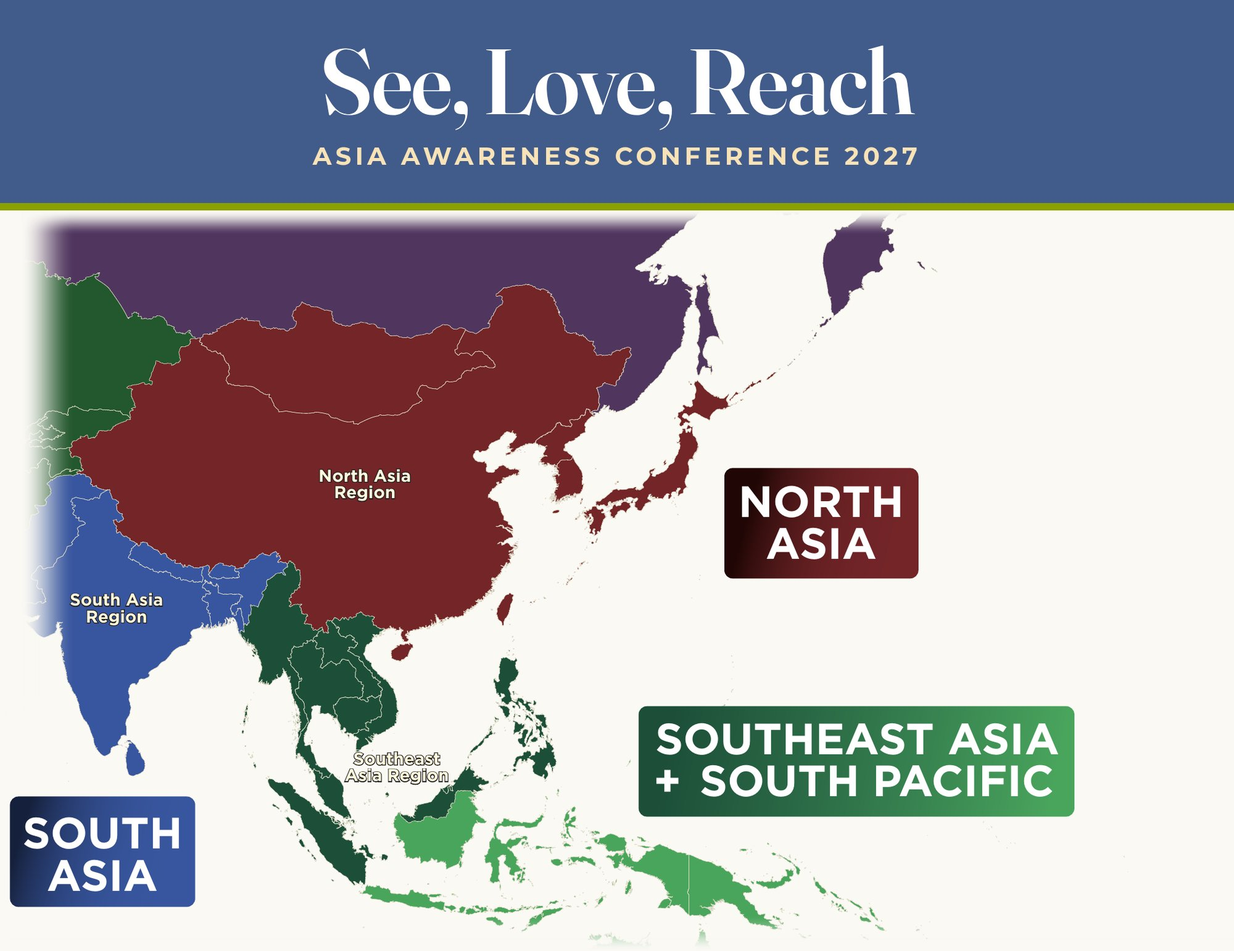
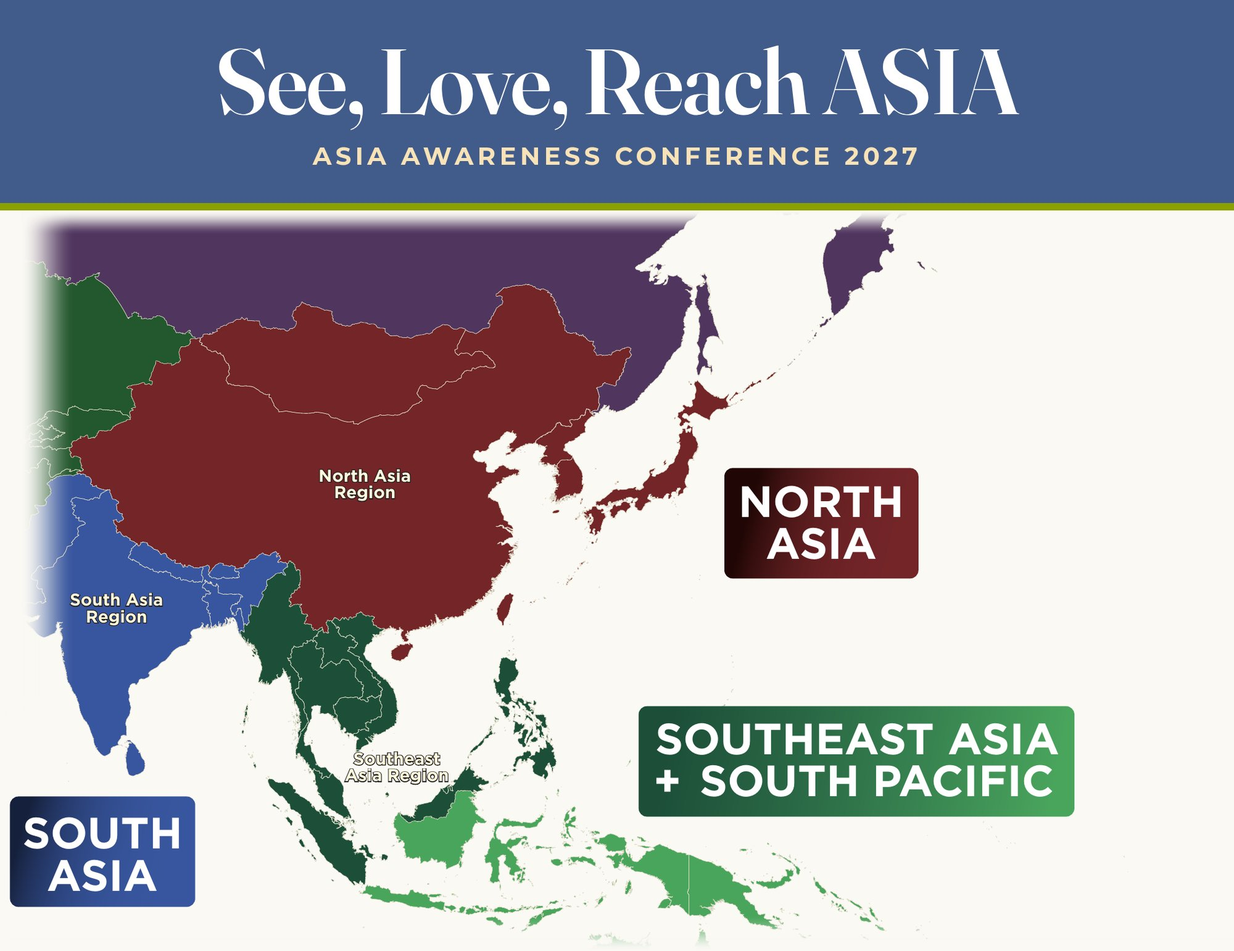
Align all site copy with the approved "See, Love, Reach ASIA" content
- Hero: "See, Love, Reach ASIA: Asia Awareness Conference 2027",
  theme "Together to the Unreached", host line naming FMI.
- New intro section with the two "Come and join us" paragraphs.
- Why Asia: regional statistics, shared-mission paragraph, and
  "Highlights of our Time" (India, Cambodia, Global Foursquare Family).
- Map band and caption, Who It's For heading, intro and cards, and
  schedule notes updated to the approved wording.
- Speakers intro, FAQ, footer, meta tags and share images aligned;
  footer logo no longer carries the old "Together on Mission" line.

Claude-Session: https://claude.ai/code/session_01EzBjrMqrEAji9AWHZvxqX2

Changed region(s): [[0.155, 0.0311, 0.837, 0.1246]]

diff --git a/index.html b/index.html
@@ -3,8 +3,8 @@
 <head>
 <meta charset="utf-8">
 <meta name="viewport" content="width=device-width, initial-scale=1">
-<title>Asia Awareness Conference 2027 · Together on Mission · Living Water Foursquare</title>
-<meta name="description" content="Asia Awareness Conference, April 5–7, 2027 at Living Water Foursquare in Olympia, WA, in partnership with Foursquare Missions International Asia. Together on Mission: pastors, church members and missionaries coming together for the unreached of Asia.">
+<title>See, Love, Reach Asia · Asia Awareness Conference 2027 · Living Water Foursquare</title>
+<meta name="description" content="See, Love, Reach Asia: Asia Awareness Conference 2027. Together to the Unreached. April 5–7, 2027 at Living Water Foursquare Church, Olympia, WA, hosted in partnership with Foursquare Missions International.">
 <meta name="theme-color" content="#415B8B">
 <!-- PLACEHOLDER: set the final public URL -->
 <link rel="canonical" href="https://jcobler77.github.io/asiaawareness/">
@@ -23,20 +23,20 @@
 <!-- Open Graph -->
 <meta property="og:type" content="website">
 <meta property="og:site_name" content="Living Water Foursquare Church">
-<meta property="og:title" content="Asia Awareness Conference 2027 · Together on Mission">
-<meta property="og:description" content="April 5–7, 2027 · Living Water Foursquare, Olympia WA · with Foursquare Missions International Asia. Pastors, church members and missionaries, together on mission for the unreached of Asia.">
+<meta property="og:title" content="See, Love, Reach Asia: Asia Awareness Conference 2027">
+<meta property="og:description" content="Together to the Unreached. April 5–7, 2027 · Living Water Foursquare Church, Olympia, WA · in partnership with Foursquare Missions International.">
 <meta property="og:url" content="https://jcobler77.github.io/asiaawareness/">
 <meta property="og:image" content="https://jcobler77.github.io/asiaawareness/assets/og-image.png">
 <meta property="og:image:width" content="1200">
 <meta property="og:image:height" content="630">
-<meta property="og:image:alt" content="See, Love, Reach: Asia Awareness Conference 2027, April 5–7, 2027, Olympia, WA, with FMI's map of its Asia regions">
+<meta property="og:image:alt" content="See, Love, Reach Asia: Asia Awareness Conference 2027. Together to the Unreached. April 5–7, 2027, Olympia, WA, with FMI's map of its Asia regions">
 
 <!-- Twitter / X -->
 <meta name="twitter:card" content="summary_large_image">
-<meta name="twitter:title" content="Asia Awareness Conference 2027 · Together on Mission">
-<meta name="twitter:description" content="April 5–7, 2027 · Living Water Foursquare, Olympia WA · with FMI Asia.">
+<meta name="twitter:title" content="See, Love, Reach Asia: Asia Awareness Conference 2027">
+<meta name="twitter:description" content="Together to the Unreached. April 5–7, 2027 · Living Water Foursquare Church, Olympia, WA.">
 <meta name="twitter:image" content="https://jcobler77.github.io/asiaawareness/assets/og-image.png">
-<meta name="twitter:image:alt" content="See, Love, Reach: Asia Awareness Conference 2027, April 5–7, 2027, Olympia, WA, with FMI's map of its Asia regions">
+<meta name="twitter:image:alt" content="See, Love, Reach Asia: Asia Awareness Conference 2027. Together to the Unreached. April 5–7, 2027, Olympia, WA, with FMI's map of its Asia regions">
 
 <!-- Critical CSS: just enough to paint the header and hero before styles.css arrives.
      Color values mirror the [critical] tokens in styles.css :root. Keep them in sync. -->
@@ -58,7 +58,7 @@ img,svg{max-width:100%;height:auto;display:block}
 .site-nav a{color:var(--color-on-dark)}
 .hero{background:var(--color-dark);color:var(--color-on-dark);padding-block:64px}
 .hero h1{font-family:var(--font-display);color:var(--color-on-dark);font-size:clamp(2.75rem,1.6rem + 4.6vw,4.75rem);line-height:1.08;letter-spacing:-.01em;margin:0 0 1rem}
-.hero__theme{font-family:var(--font-display);font-weight:700;font-size:clamp(1.75rem,1.4rem + 1.4vw,2.25rem);line-height:1.15;color:var(--color-on-dark-display)}
+.hero__title-sub{display:block;margin-top:.75rem;font-family:var(--font-sans);font-weight:700;text-transform:uppercase;font-size:clamp(1rem,.8rem + .9vw,1.375rem);line-height:1.3;letter-spacing:.12em}.hero__theme{font-family:var(--font-display);font-weight:700;font-size:clamp(1.75rem,1.4rem + 1.4vw,2.25rem);line-height:1.15;color:var(--color-on-dark-display)}
 .hero-slides{position:fixed;inset:0;z-index:-1;margin:0;background:var(--color-dark)}.hero-slide{position:absolute;inset:0 0 auto 0;height:calc(4rem + 62vw);margin:0;opacity:0}.hero-slide.is-active{opacity:1}.hero-slide img{width:100%;height:100%;object-fit:cover;object-position:var(--pos,center)}.hero--slides{background:transparent;padding:0}.hero__stage{height:62vw;min-height:200px}.hero__panel{background:var(--color-dark);padding-block:48px}.hero__controls{display:none}@media (min-width:60em){.hero-slide{inset:0;height:auto}.hero__stage{height:0;min-height:0}.hero__panel{background:transparent}.hero--slides{min-height:min(88vh,820px);display:flex;align-items:center}}
 .hero__meta{list-style:none;padding:0}
 .hero__meta svg{width:1.25rem}
@@ -149,8 +149,8 @@ img,svg{max-width:100%;height:auto;display:block}
     <div class="container">
       <div class="hero__content">
       <p class="eyebrow">Living Water Foursquare &amp; FMI Asia present</p>
-      <h1 id="hero-title">Asia Awareness Conference</h1>
-      <p class="hero__theme">Together on Mission</p>
+      <h1 id="hero-title">See, Love, Reach ASIA<span class="visually-hidden">:</span> <span class="hero__title-sub">Asia Awareness Conference 2027</span></h1>
+      <p class="hero__theme">Together to the Unreached</p>
 
       <ul class="hero__meta">
         <li>
@@ -169,26 +169,37 @@ img,svg{max-width:100%;height:auto;display:block}
       </div>
 
       <p class="hero__host">Hosted by Living Water Foursquare Church in partnership with
-        <a href="https://resources.foursquare.org/meet-your-fmi-workers/" rel="noopener">Foursquare Missions International Asia</a>.</p>
+        <a href="https://resources.foursquare.org/meet-your-fmi-workers/" rel="noopener">Foursquare Missions International</a>.</p>
       </div>
     </div>
     </div>
   </section>
 
-  <!-- 2. WHY ASIA ======================================================== -->
+  <!-- 2. ABOUT ========================================================== -->
+  <section class="section section--intro" id="about" aria-labelledby="about-title">
+    <div class="container container--narrow">
+      <h2 id="about-title" class="visually-hidden">About the conference</h2>
+      <div class="prose prose--intro">
+        <p>Come and join us for the Asia Awareness Conference, April 5–7, 2027, where you can gather with Asian pastors and leaders, field workers serving in Asia, and pastors, leaders, and church members from the U.S. church to <strong>See</strong> the nations, <strong>Love</strong> the people, and <strong>Reach</strong> the unreached together. Over three days at Living Water Foursquare Church in Olympia, Washington, we will open our eyes to what God is doing across South Asia, North Asia, Southeast Asia, and the South Pacific, let our hearts be moved with compassion for the people behind the numbers, and pray together in unity.</p>
+        <p>This is a chance to celebrate what God is doing now and to seek the Lord for what He wants to do next as we examine the needs and opportunities we have to be a part of bringing the gospel to unreached communities across Asia. Show up ready to learn what God is doing across the nations, let your heart be stirred with compassion for the unreached, and explore how you and your community can engage together to the unreached.</p>
+      </div>
+    </div>
+  </section>
+
+  <!-- 3. WHY ASIA ======================================================== -->
   <section class="section" id="why-asia" aria-labelledby="why-title">
     <div class="container container--narrow">
       <p class="eyebrow">Why Asia</p>
       <h2 id="why-title">Where the need is greatest, and where the family is already sending</h2>
       <div class="prose">
-        <p>Asia is home to the largest unreached and unengaged populations on earth. Billions of people live, work and raise their families there without a church nearby, a Bible in their language or a neighbor who follows Jesus.</p>
-        <p>India carries the greatest need of all, with more unreached people groups than any other nation, at a moment when global attention to it is fading. Cambodia, home to the Khmer, one of the 100 largest unreached people groups in the world, is where Living Water in Olympia already has a long-standing partnership and friends we know by name.</p>
-        <p>We aren't starting from scratch, and we aren't going alone. Churches in the Philippines and across the global Foursquare family are already sending missionaries throughout Asia. This conference is a chance to learn from them, pray with them, and find our part in a mission that belongs to the whole church.</p>
+        <p>Across South Asia, North Asia, Southeast Asia, and the South Pacific, our four Asia regions encompass over 40 nations and 4.4 billion people, including roughly 4,300 of the world's 7,250 Unreached People Groups (UPGs), representing two-thirds of the entire unreached world. This conference is a chance to <strong>See</strong> these nations, <strong>Love</strong> the people, and <strong>Reach</strong> the unreached together.</p>
+        <p>We aren't starting from scratch, and we aren't going alone. As part of our shared mission with the global Foursquare church, workers are being sent from around the world throughout Asia. Leaders from these nations will be with us in Olympia and sharing what God is doing to expand His Kingdom. This is an invitation to learn from one another, pray together, and discover our unique roles in this global partnership.</p>
       </div>
-      <ul class="nation-list" aria-label="Focus nations">
-        <li><strong>India</strong><span>The greatest number of unreached people groups</span></li>
-        <li><strong>Cambodia</strong><span>Olympia's existing partnership</span></li>
-        <li><strong>The Philippines</strong><span>A sending church, already on mission</span></li>
+      <h3 class="highlights-title" id="highlights-title">Highlights of our Time</h3>
+      <ul class="nation-list" aria-labelledby="highlights-title">
+        <li><strong>India</strong><span>The largest UPG population in the world, with 2,130 UPGs and 45 of the world's 100 largest UPGs</span></li>
+        <li><strong>Cambodia</strong><span>Olympia's existing partnership among the Khmer</span></li>
+        <li><strong>Global Foursquare Family</strong><span>Closed Nations in North Asia, New Nations in the South Pacific</span></li>
       </ul>
     </div>
     <div class="container">
@@ -196,30 +207,30 @@ img,svg{max-width:100%;height:auto;display:block}
         <div class="region-map__card">
           <!-- Title band (FMI style: navy block, serif headline, spaced caps) -->
           <div class="region-map__title">
-            <p class="region-map__tagline">See, Love, Reach<span class="visually-hidden">:</span></p>
+            <p class="region-map__tagline">See, Love, Reach ASIA<span class="visually-hidden">:</span></p>
             <p class="region-map__name">Asia Awareness Conference 2027</p>
           </div>
           <a class="region-map__link" href="assets/photos/see-love-reach-asia-map.jpg">
             <picture>
               <source type="image/webp" srcset="assets/photos/fmi-asia-map-1000.webp 1000w, assets/photos/fmi-asia-map-2000.webp 2000w" sizes="(min-width: 1200px) 1152px, calc(100vw - 2rem)">
               <img src="assets/photos/fmi-asia-map-2000.png" srcset="assets/photos/fmi-asia-map-1000.png 1000w, assets/photos/fmi-asia-map-2000.png 2000w" sizes="(min-width: 1200px) 1152px, calc(100vw - 2rem)" width="2000" height="1200" loading="lazy" decoding="async"
-                alt="Foursquare Missions International map of its Asia regions: the North Asia region, the South Asia region, and the Southeast Asia and South Pacific region.">
+                alt="Foursquare Missions International map of its four Asia regions: South Asia, North Asia, Southeast Asia, and the South Pacific (labelled together on the map as Southeast Asia + South Pacific).">
             </picture>
             <span class="visually-hidden"> (open the full-size map)</span>
           </a>
         </div>
-        <figcaption>FMI's regions in Asia: North Asia, South Asia, and Southeast Asia + South Pacific. Map courtesy of Foursquare Missions International. Tap the map to see it full size.</figcaption>
+        <figcaption>FMI's four regions in Asia: South Asia, North Asia, Southeast Asia, and South Pacific. Map courtesy of Foursquare Missions International. <span class="region-map__hint">Tap the map to see it full size.</span></figcaption>
       </figure>
     </div>
   </section>
 
-  <!-- 3. WHO IT'S FOR ==================================================== -->
+  <!-- 4. WHO IT'S FOR ==================================================== -->
   <section class="section section--alt" id="who" aria-labelledby="who-title">
     <div class="container">
       <div class="section__header section__header--center">
         <p class="eyebrow">Who it's for</p>
-        <h2 id="who-title">A room full of people who want to go, send and pray</h2>
-        <p class="section__intro">Whatever your role, there's a seat for you.</p>
+        <h2 id="who-title">A room full of people ready to see, love, and reach</h2>
+        <p class="section__intro">Whatever your role, there's a seat for you to discover ASIA together.</p>
       </div>
       <div class="card-grid card-grid--3">
         <article class="card">
@@ -227,27 +238,27 @@ img,svg{max-width:100%;height:auto;display:block}
             <svg viewBox="0 0 24 24" fill="none" stroke="currentColor" stroke-width="2"><path d="M12 3v18M7 8h10"/></svg>
           </div>
           <h3>Pastors &amp; Church Leaders</h3>
-          <p>For Northwest Foursquare pastors, regional pastors and ministry leaders who want practical ways to lead their congregations into Asia, through partnership, prayer and sending.</p>
+          <p>For Northwest Foursquare pastors, regional pastors, and ministry leaders interested in leading their congregations into active partnership and relationship with Asia through prayer, equipping, and sending.</p>
         </article>
         <article class="card">
           <div class="card__icon" aria-hidden="true">
             <svg viewBox="0 0 24 24" fill="none" stroke="currentColor" stroke-width="2"><circle cx="9" cy="8" r="3"/><circle cx="17" cy="9" r="2.5"/><path d="M3 20c0-3.3 2.7-6 6-6s6 2.7 6 6M15 20c0-2.5 1-4.5 3-5"/></svg>
           </div>
-          <h3>Church Members</h3>
-          <p>For anyone whose heart is stirred for the nations. Hear real stories, meet missionaries face to face, and find out how an ordinary church family can make a real difference.</p>
+          <h3>Church Members &amp; Local Witnesses</h3>
+          <p>For anyone whose heart is stirred for the nations. Hear real stories, meet workers face to face, and discover how you can be a part of reaching the world where you live or on the field.</p>
         </article>
         <article class="card">
           <div class="card__icon" aria-hidden="true">
             <svg viewBox="0 0 24 24" fill="none" stroke="currentColor" stroke-width="2"><circle cx="12" cy="12" r="9"/><path d="M3 12h18M12 3c2.5 2.7 3.8 5.7 3.8 9s-1.3 6.3-3.8 9c-2.5-2.7-3.8-5.7-3.8-9S9.5 5.7 12 3z"/></svg>
           </div>
-          <h3>Pre-Missionaries &amp; Missionaries</h3>
-          <p>For those sensing a call, preparing to go or already serving. Connect with FMI Asia leaders, ask honest questions and be encouraged by people walking the same road.</p>
+          <h3>Pre-Missionaries &amp; Sent Workers</h3>
+          <p>For those sensing a call, preparing to go, or already serving. Connect with FMI leaders around equipping incarnational, language-learning, and submitted workers who go boldly and wisely into unreached spaces.</p>
         </article>
       </div>
     </div>
   </section>
 
-  <!-- 4. SCHEDULE ======================================================== -->
+  <!-- 5. SCHEDULE ======================================================== -->
   <section class="section" id="schedule" aria-labelledby="schedule-title">
     <div class="container">
       <div class="section__header">
@@ -264,7 +275,7 @@ img,svg{max-width:100%;height:auto;display:block}
           </div>
           <ul class="day__list">
             <li><span class="time">5:30 PM</span><div><strong>Welcome dinner</strong><span class="note">Included with Full Conference and Evening registration</span></div></li>
-            <li><span class="time">7:00 PM</span><div><strong>Opening session</strong><span class="note">Worship, welcome and vision for Asia</span></div></li>
+            <li><span class="time">7:00 PM</span><div><strong>Opening session</strong><span class="note">Worship, welcome, and vision for Asia</span></div></li>
           </ul>
         </article>
 
@@ -276,7 +287,7 @@ img,svg{max-width:100%;height:auto;display:block}
           <ul class="day__list">
             <li><span class="time">9:00 AM</span><div><strong>Morning sessions</strong><span class="note">Teaching and stories from the field</span></div></li>
             <li><span class="time">12:00 PM</span><div><strong>Open lunch</strong><span class="note">2-hour window to eat nearby and connect (see <a href="#lunch">lunch options</a>)</span></div></li>
-            <li><span class="time">2:00 PM</span><div><strong>Afternoon sessions</strong><span class="note">Breakouts for pastors, members and missionaries</span></div></li>
+            <li><span class="time">2:00 PM</span><div><strong>Afternoon sessions</strong><span class="note">Breakouts for pastors, members, and workers</span></div></li>
             <li><span class="time">5:30 PM</span><div><strong>Indian dinner</strong><span class="note">Included with Full Conference and Evening registration</span></div></li>
             <li><span class="time">7:00 PM</span><div><strong>India Night</strong><span class="note">An evening focused on India's people and needs</span></div></li>
           </ul>
@@ -303,7 +314,7 @@ img,svg{max-width:100%;height:auto;display:block}
       <div class="section__header">
         <p class="eyebrow">Speakers &amp; stories</p>
         <h2 id="speakers-title">Voices from across the Foursquare family</h2>
-        <p class="section__intro">Missionaries, national leaders and pastors sharing what God is doing in Asia. Speakers to be announced.</p>
+        <p class="section__intro">Asian pastors and leaders and field workers serving in Asia, sharing what God is doing across the nations. Speakers to be announced.</p>
       </div>
 
       <!-- PLACEHOLDER: replace each card's image, name, role and nation -->
@@ -451,7 +462,7 @@ img,svg{max-width:100%;height:auto;display:block}
       <div class="faq">
         <details>
           <summary>Who should come?</summary>
-          <div class="faq__answer"><p>Pastors, regional pastors, church leaders, church members and anyone preparing for or already serving in missions. If you care about the people of Asia, or want to find out whether you should, you're welcome here.</p></div>
+          <div class="faq__answer"><p>Pastors, regional pastors, ministry leaders, church members, and anyone sensing a call, preparing to go, or already serving. You'll gather with Asian pastors and leaders, field workers serving in Asia, and the U.S. church to see, love, and reach the unreached together.</p></div>
         </details>
         <details>
           <summary>How much does it cost?</summary>
@@ -471,7 +482,7 @@ img,svg{max-width:100%;height:auto;display:block}
         </details>
         <details>
           <summary>How can I get my church involved?</summary>
-          <div class="faq__answer"><p>Bring a team, pray with us, or talk with FMI Asia leaders at the conference about partnering with a field, supporting a missionary or sending a short-term team. <a href="mailto:EMAIL@example.org">Email us</a> and we'll help you take the next step.</p></div>
+          <div class="faq__answer"><p>Bring a team, pray with us, and talk with FMI leaders at the conference about how you and your community can engage together to the unreached: through prayer, equipping, and sending workers. <a href="mailto:EMAIL@example.org">Email us</a> and we'll help you take the next step.</p></div>
         </details>
       </div>
     </div>
@@ -484,13 +495,13 @@ img,svg{max-width:100%;height:auto;display:block}
   <div class="container">
     <div class="footer-grid">
       <div>
-        <img class="footer-brand" src="assets/brand/aac-stacked-reversed.svg" alt="Asia Awareness Conference, April 2027: Together on Mission" width="872" height="544" loading="lazy" decoding="async">
+        <img class="footer-brand" src="assets/brand/aac-horizontal-reversed.svg" alt="Asia Awareness Conference, April 2027" width="1082" height="266" loading="lazy" decoding="async">
         <!-- PLACEHOLDER: replace with the real Living Water logo file. The FMI logo is the reversed (white) version, per FMI guidelines for dark backgrounds. -->
         <div class="footer-logos">
           <img src="assets/logo-living-water-placeholder.svg" alt="Living Water Foursquare Church" width="240" height="72" loading="lazy" decoding="async">
           <img class="footer-logo-fmi" src="assets/brand/fmi-logo-white.png" alt="Foursquare Missions International" width="1200" height="228" loading="lazy" decoding="async">
         </div>
-        <p>Hosted by Living Water Foursquare Church, Olympia, Washington, with Foursquare Missions International Asia.</p>
+        <p><strong>See, Love, Reach ASIA</strong> · Together to the Unreached<br>Hosted by Living Water Foursquare Church in partnership with Foursquare Missions International.</p>
       </div>
       <div>
         <h2>Contact</h2>
@@ -516,7 +527,7 @@ img,svg{max-width:100%;height:auto;display:block}
         </ul>
       </div>
     </div>
-    <p class="footer-bottom">© <span data-year>2026</span> Living Water Foursquare Church, Olympia, WA. In partnership with Foursquare Missions International Asia.</p>
+    <p class="footer-bottom">© <span data-year>2026</span> Living Water Foursquare Church, Olympia, WA. In partnership with Foursquare Missions International.</p>
   </div>
 </footer>
 

diff --git a/styles.css b/styles.css
@@ -258,7 +258,7 @@ a:hover { color: var(--color-link-hover); }
 /* Sections are translucent navy panels over the fixed hero photos (FMI's
    navy photo-overlay treatment), with a light text scheme. Contrast, worst
    case = a pure white photo pixel:
-   - First section (#why-asia) and no-JS: panel-solo deep navy .85, NO shade
+   - First section (#about) and no-JS: panel-solo deep navy .85, NO shade
      -> white 9.0:1, gold-light 7.2:1.
    - Later sections: shade .65 (fully on before they scroll into view, see
      script.js) + panel deep navy .50 -> white 8.3:1, gold-light 6.6:1;
@@ -278,7 +278,7 @@ a:hover { color: var(--color-link-hover); }
   color: var(--color-text);
 }
 .section--alt { background: var(--color-panel-alt); }
-#why-asia, html:not(.js) .section { background: var(--color-panel-solo); }
+#about, html:not(.js) .section { background: var(--color-panel-solo); }
 
 /* White surfaces inside sections switch back to the light (default) scheme. */
 .card, .day, .speaker, .hotel, .callout, .badge {
@@ -407,6 +407,20 @@ html:not(.js) .hero__controls { display: none; }
 .cta-group { display: flex; flex-wrap: wrap; gap: var(--space-xs); }
 .cta-group .btn { flex: 1 1 12rem; }
 @media (min-width: 36em) { .cta-group .btn { flex: 0 0 auto; } }
+
+/* --- Hero title + intro ------------------------------------------------ */
+.hero__title-sub {
+  display: block; margin-top: var(--space-xs);
+  font-family: var(--font-sans); font-weight: var(--fw-bold); text-transform: uppercase;
+  font-size: clamp(1rem, 0.8rem + 0.9vw, 1.375rem); line-height: 1.3; letter-spacing: 0.12em;
+  color: var(--color-on-dark);
+}
+.prose--intro p { font-size: var(--fs-md); line-height: 1.6; color: var(--color-text); }
+.prose--intro p:first-child { color: var(--color-heading); }
+.prose strong { color: var(--color-heading); font-weight: var(--fw-bold); }
+.highlights-title { margin: var(--space-xl) 0 0; font-size: var(--fs-h3); }
+.highlights-title + .nation-list { margin-top: var(--space-md); }
+.region-map__hint { display: block; }
 
 /* --- Prose (Why Asia) ---------------------------------------------------- */
 .prose p { line-height: 1.65; }

diff --git a/script.js b/script.js
@@ -117,12 +117,12 @@
 
   /* Darken the hero photos as the page scrolls past the hero ------------
      Progress t goes 0 -> 1 between the top of the page and the moment the
-     second section (#who) reaches the bottom of the screen, so the shade is
+     second section (#why-asia) reaches the bottom of the screen, so the shade is
      fully on before any lighter panel is visible (see the contrast notes in
      styles.css). On phones the photo also zooms to fill the screen. */
   var layer = document.querySelector('[data-hero-slides]');
   var heroEl = document.getElementById('top');
-  var secondSection = document.getElementById('who');
+  var secondSection = document.getElementById('why-asia');
   if (layer && heroEl) {
     var MAX_SHADE = 0.65;
     var wide = window.matchMedia('(min-width: 60em)');

diff --git a/README.md b/README.md
@@ -1,6 +1,6 @@
 # Asia Awareness Conference 2027 · Landing Page
 
-A single-page landing site for the **Asia Awareness Conference**, *Together on Mission*, hosted by
+A single-page landing site for **See, Love, Reach ASIA: Asia Awareness Conference 2027**, *Together to the Unreached*, hosted by
 Living Water Foursquare Church (Olympia, WA) with Foursquare Missions International (FMI) Asia,
 April 2027.
 
@@ -71,8 +71,8 @@ The site follows the **Foursquare Missions International (FMI) brand guidelines*
   - `aac-horizontal-reversed.svg`: header.
   - `aac-stacked-reversed.svg`: footer.
   - `aac-app-icon.svg`, `favicon-64.png` and `aac-app-icon-180.png`: favicons.
-- **Share image:** `assets/og-image.png` (1200×630) has "See, Love, Reach", the conference name and
-  dates on FMI navy, next to FMI's Asia map.
+- **Share image:** `assets/og-image.png` (1200×630) has "See, Love, Reach ASIA", the conference name,
+  "Together to the Unreached" and the dates on FMI navy, next to FMI's Asia map.
 
 **One catch:** `index.html` has a small inline critical-CSS block in `<head>` so the header and hero
 render before `styles.css` loads. It repeats the tokens marked `[critical]` in `styles.css`. If brand
@@ -88,7 +88,7 @@ section scrolls into view. On phones, the photo also zooms out of its top window
 The content sections are translucent navy panels (FMI's navy photo-overlay look) with light text, so about a fifth of the
 photo shows through:
 - `--color-panel` is deep navy at 50% and `--color-panel-alt` is navy at 60%.
-- The first section uses the heavier `--color-panel-solo` (85%), because it is on screen while the
+- The first section (the intro, `#about`) uses the heavier `--color-panel-solo` (85%), because it is on screen while the
   shade is still ramping up. Pages without JavaScript use it for every section.
 
 These numbers are tuned together to pass AA contrast even over a white photo. If you change
@@ -103,7 +103,7 @@ motion", and it stops while the tab is hidden or the hero is scrolled out of vie
 | `hero-3-540` | supplied, **confirm license**; only 540px wide, so it looks soft on large screens |
 | `hero-4-*` | supplied, **confirm license** |
 
-In the Why Asia section, the map card has a navy title band, "See, Love, Reach" over "Asia Awareness Conference 2027", as live text. Tapping the map opens `see-love-reach-asia-map.jpg`, the same title and map as one image, which is handy to download and share. `fmi-asia-map-*` (not part of the slideshow) is the Asia portion of FMI's global regions map, shown in the Why Asia section with a credit to FMI. It links to the full-size image so people on phones can zoom in. (It replaced the earlier "Together to the Unreached 2027" map, which is still in git history.)
+In the Why Asia section, the map card has a navy title band, "See, Love, Reach ASIA" over "Asia Awareness Conference 2027", as live text. Tapping the map opens `see-love-reach-asia-map.jpg`, the same title and map as one image, which is handy to download and share. `fmi-asia-map-*` (not part of the slideshow) is the Asia portion of FMI's global regions map, shown in the Why Asia section with a credit to FMI. It links to the full-size image so people on phones can zoom in. (It replaced the earlier "Together to the Unreached 2027" map, which is still in git history.)
 
 The slideshow deliberately shows no place names, in the captions or the alt text.
 
@@ -164,7 +164,7 @@ Everything below needs real content before launch. Search the files for `PLACEHO
 
 ### Copy to review
 - [ ] **Why Asia paragraphs:** confirm the claims and wording (India's unreached people groups, the Khmer among the 100 largest unreached people groups, Philippines and the global Foursquare family as senders).
-- [ ] **Who It's For cards, FAQ answers, hero eyebrow** ("Living Water Foursquare & FMI Asia present").
+- [x] **Site copy:** hero, intro, Why Asia, highlights, map, Who It's For and schedule follow the approved content document word for word. Speakers intro, FAQ and footer wording were aligned to it.
 
 ---
 
